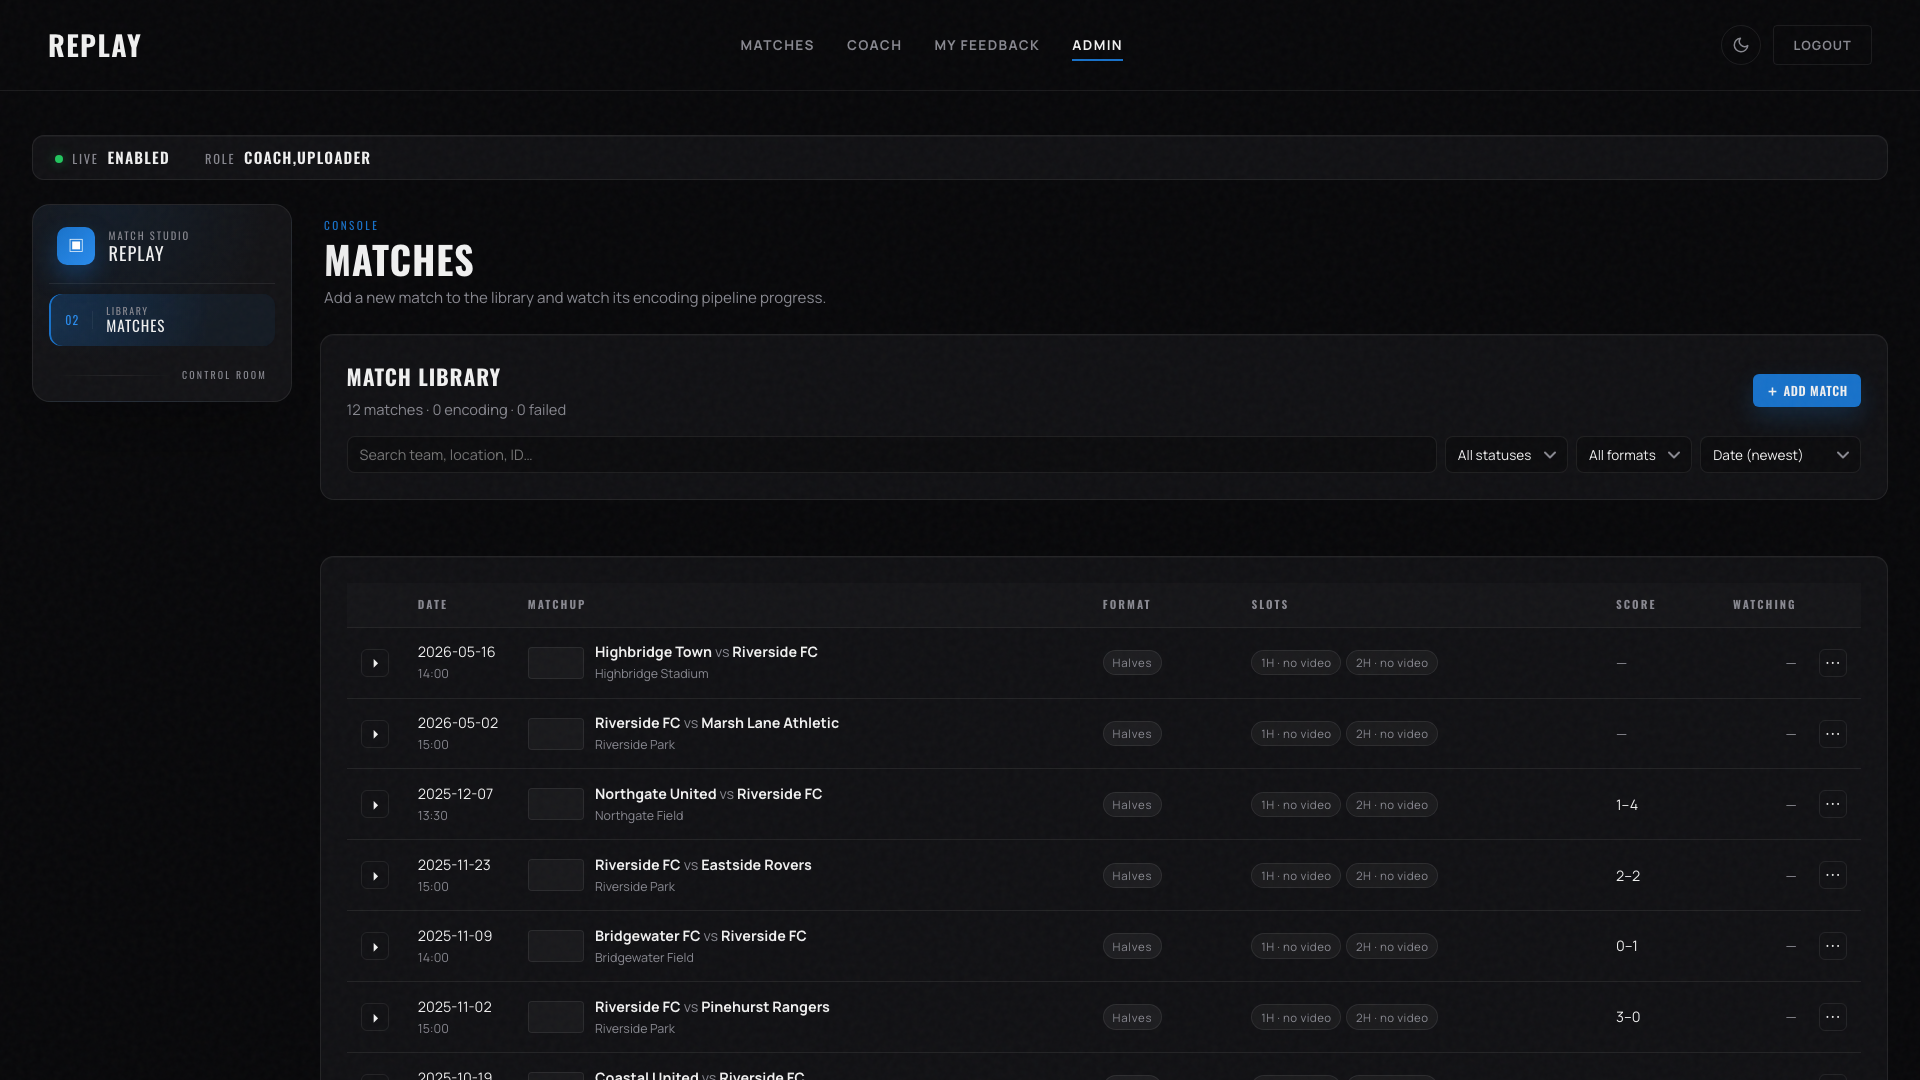
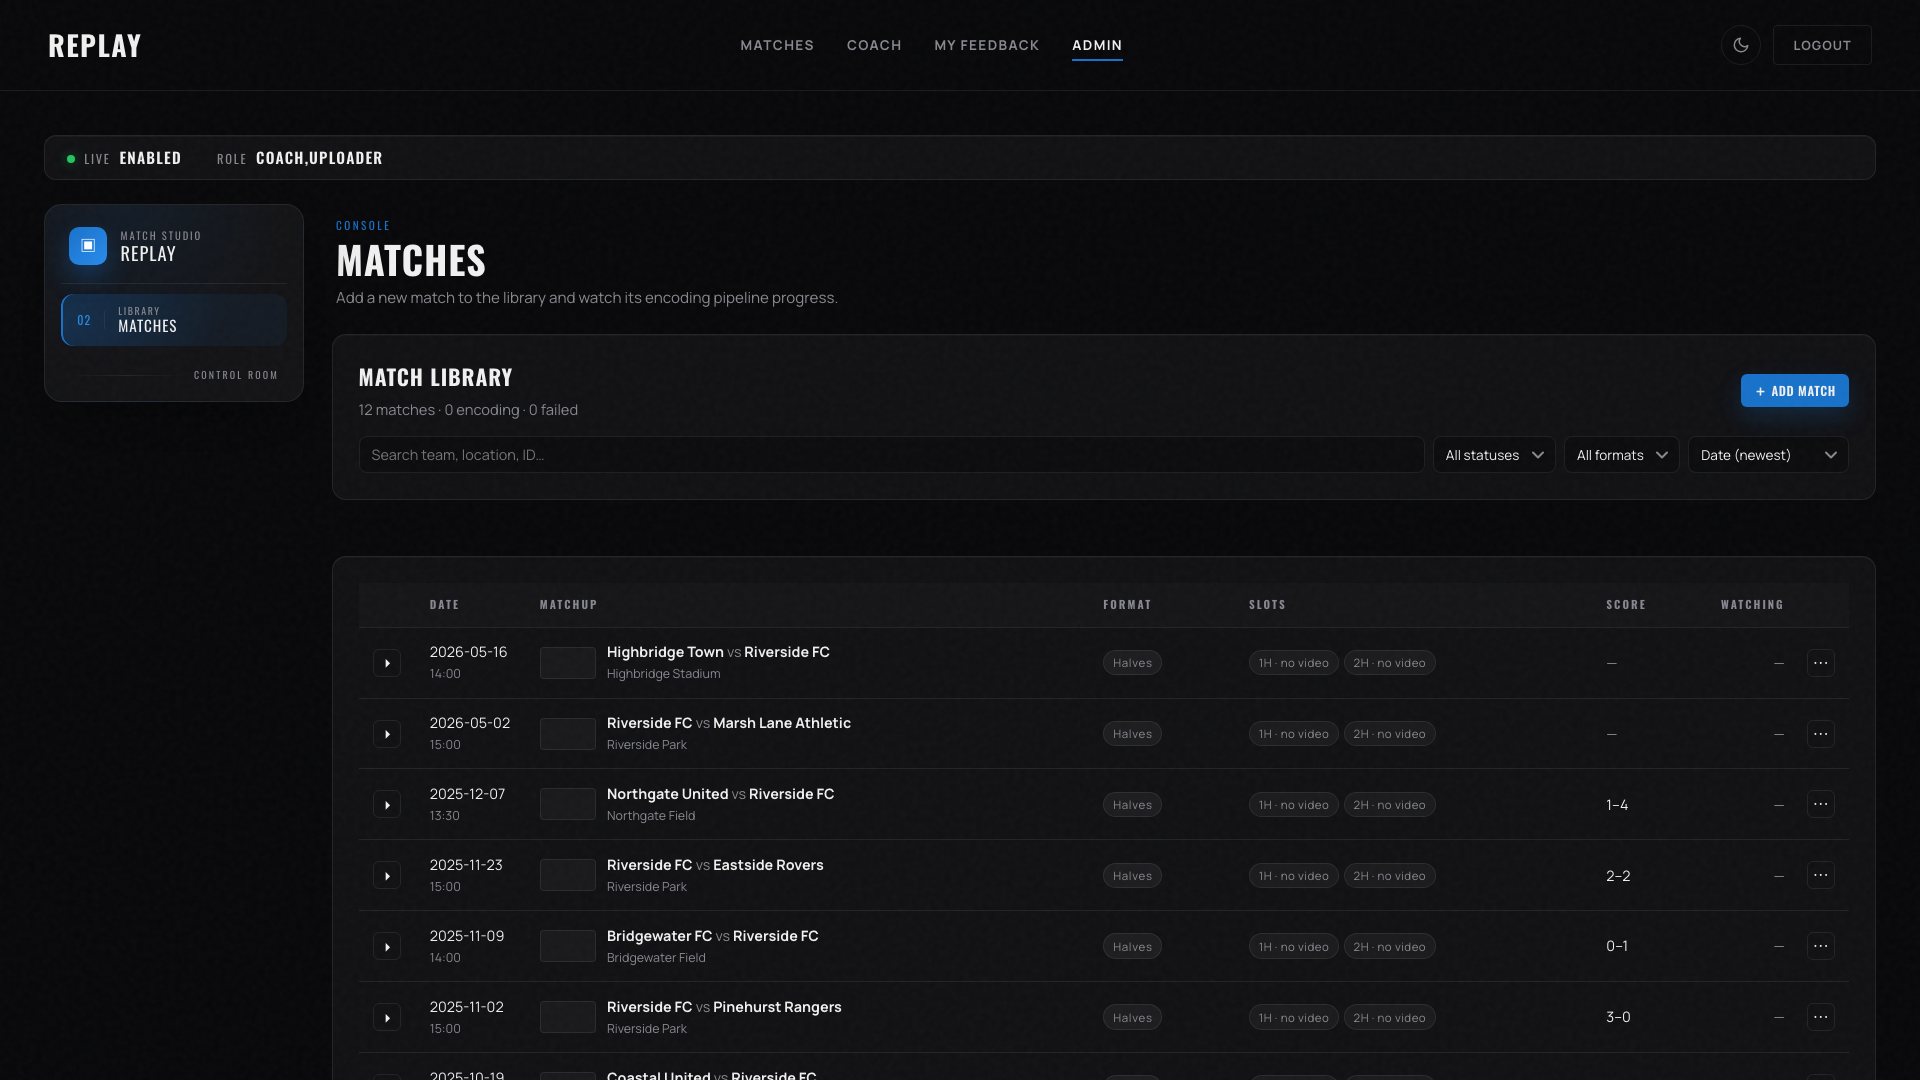
PR #68 review fixes: admin gutter, ROADMAP sync, dead-code cleanup
Address review issues from /code-review on PR #68:

1. **Admin sidebar gutter (Fix A)** — `#admin-view` previously
   dropped to `padding: 1.5rem 0 4rem` after the inner-cap removal,
   leaving the sticky sidebar abutting the page edge at desktop
   widths (only the outer `#app-container { padding: 1.25rem }`
   provided any gutter). Restored a small horizontal pad of
   `0.75rem` so the sidebar / status strip have visible breathing
   room between them and the page edge while still letting the
   admin shell fill end-to-end. Mobile `@media (max-width: 900px)`
   override still wins at narrow widths.

2. **ROADMAP.md sync (Fix C, the only ≥80 review issue)** — added
   a new entry describing the inner-cap removals, and annotated
   the previous PR #67 entry as superseded the same day so a
   future reader doesn't believe the 1320 / 1440 caps are still in
   place. Brings the doc back in line with the CLAUDE.md mandate
   "After every code change, update the relevant markdown files".

3. **`#app-container` comment refresh (Fix D)** — the block comment
   above the global page shell rule still recommended per-view
   inner caps as the right pattern (citing
   `.coach-grid { max-width: 1320px }` as an example). The example
   no longer exists. Rewrote the comment to state the new policy
   explicitly: "Do not add per-view max-width caps. Every view
   fills the shell end-to-end."

4. **Dead `is-review-mode` width override removed (Fix E)** — the
[…]

diff --git a/styles.css b/styles.css
@@ -176,17 +176,20 @@ button {
 
 /* ===== LAYOUT ===== */
 
-/* Global page shell. The width policy is the same one the Coach Review
- * cockpit needs (PR #57+), now applied universally so every view —
- * public season / match, admin, coach (all 4 tabs), my feedback —
- * shares one outer rhythm and tab-switching never jumps the page edges.
- * `min(100% - 1.5rem, 2200px)` lets the shell scale with the viewport
- * up to ~2200 px (after which form rows look weird sprawling across a
- * 28" monitor) and keeps a consistent ~12 px gutter on every side at
- * narrower widths. Padding is reduced from the historical 3rem to
- * 1.25rem so the content actually reaches the new edges; views that
- * want a narrower readable measure should cap their *inner* containers
- * (e.g. `.coach-grid { max-width: 1320px }`), not the outer shell. */
+/* Global page shell. One width policy for the entire site — the
+ * Coach Review cockpit's policy (PR #57+) is now applied universally
+ * so every view (public season / match, admin, coach all 4 tabs,
+ * my feedback) shares one outer rhythm and tab-switching never
+ * jumps the page edges. `min(100% - 1.5rem, 2200px)` scales the
+ * shell with the viewport up to ~2200 px (after which content looks
+ * weird sprawling across a 28" monitor) and keeps a consistent ~12 px
+ * gutter on every side at narrower widths. Padding is reduced from
+ * the historical 3rem to 1.25rem so content actually reaches the
+ * new edges. **Do not add per-view max-width caps.** Every view
+ * fills the shell end-to-end; rare components that genuinely need
+ * a narrower readable measure (a long prose article, a focused
+ * playback modal) cap themselves at the component level. See
+ * AGENTS.md "One width for the whole site" for the rationale. */
 #app-container {
     padding: 1.25rem;
     max-width: min(100% - 1.5rem, 2200px);
@@ -3289,10 +3292,13 @@ input[type="time"]::-webkit-calendar-picker-indicator {
 
 /* Admin shell — no inner cap, fills the universal page shell so it
  * matches Coach Review and the rest of the site at wide widths.
- * Padding tightened from `1.75rem 2.5rem 4rem` to a uniform value
- * that lets the dashboard reach the new edges. */
+ * A small horizontal pad (`0.75rem`) preserves a visible gutter
+ * between the sticky sidebar / status strip and the outer
+ * `#app-container` edge — without it the sidebar abuts the page
+ * gutter at desktop widths. Mobile (`@media (max-width: 900px)`
+ * ~L3735) overrides this to `1rem` for touch ergonomics. */
 #admin-view {
-    padding: 1.5rem 0 4rem;
+    padding: 1.5rem 0.75rem 4rem;
 }
 
 /* ----- Status strip ----- */
@@ -6626,19 +6632,12 @@ details.diag-row-details[open] > summary::after {
     padding-bottom: 0.6rem;
 }
 
-/* Review mode lets the cockpit fill the full shell. The outer page
- * shell width itself is now uniform across the whole site (see
- * `#app-container` ~L179); here we only need to lift the inner
- * 1180 px cap on the Coach page-head / subnav / tab-panel so the
- * cockpit reaches the page edges. The non-Review Coach tabs keep
- * the inner 1180 px cap so form rows stay a comfortable measure. */
-@media (min-width: 1024px) {
-    #coach-view.is-review-mode .coach-page-head,
-    #coach-view.is-review-mode .coach-subnav,
-    #coach-view.is-review-mode .coach-tab-panel {
-        max-width: 100%;
-    }
-}
+/* Review mode no longer needs special width handling: the universal
+ * page shell + the no-inner-cap policy mean every Coach surface
+ * (Roster / Notes / Playlists / Review) already fills `#app-container`
+ * end-to-end. The previous `max-width: 100%` overrides on
+ * `.coach-page-head` / `.coach-subnav` / `.coach-tab-panel` were
+ * removed because the inner 1180 px caps they lifted are gone. */
 
 @media (min-width: 1024px) {
     #coach-view.is-review-mode .coach-review-grid {

diff --git a/ROADMAP.md b/ROADMAP.md
@@ -589,13 +589,28 @@ On phones the season header stacked the team badge, title/intro block and Watch 
 
 ---
 
-## Site-wide Outer Shell Unification + Coach Tab Inner Caps ✅ COMPLETE (2026-05-03)
+## Every-view Fills the Universal Page Shell ✅ COMPLETE (2026-05-03)
+
+**Goal:** the previous unification (below) widened `#app-container` to 2200 px but each view still capped its inner content (Coach 1440, Feedback 980, Admin 1320), leaving large dead bands on either side at 1920 px on every surface except Coach Review. This pass removes those inner caps so each view actually fills the shell.
+
+- **Coach inner caps removed** — `.coach-page-head`, `.coach-grid`, `.coach-subnav`, `.coach-tab-panel` no longer cap; form rows now stretch with the shell. The two-column `.coach-grid` keeps `repeat(2, minmax(0, 1fr))` so the Roster two-card layout still works.
+- **Feedback inner caps removed** — `.feedback-content`, `.feedback-linked-strip`, `.feedback-subnav`, `.feedback-tab-panel` (all were 980 px). My Feedback now fills the shell to match Coach.
+- **Admin inner cap removed** — `#admin-view` is no longer capped at 1320 px. A small horizontal pad (`0.75rem`) preserves a visible gutter between the sticky sidebar / status strip and the outer `#app-container` edge so the dense control panel still has breathing room.
+- **`is-review-mode` width override** in `styles.css` (the `@media (min-width: 1024px) { .coach-page-head, .coach-subnav, .coach-tab-panel { max-width: 100% } }` block) removed — it became a no-op once the inner caps it lifted were gone.
+- **AGENTS.md** rewritten under Editing Guidance: "One width for the whole site. Every view fills the shell end-to-end. Don't add per-view outer OR inner max-width caps."
+- **Public season + match pages** unchanged — they already used grid `auto-fill` / flex, so they fill naturally.
+- **Validation**: `node --check` clean, `pytest tests/` 269 passed; measured at 1920 px — every surface reports container `12 → 1908` with active-view content `32 → 1888`. No body overflow at 1920 / 1440 / 1024 / 768 / 390 px.
+- **Screenshots**: `docs/screenshots/site-width-after/` — refreshed.
+
+---
+
+## Site-wide Outer Shell Unification + Coach Tab Inner Caps ✅ COMPLETE (2026-05-03) — *superseded same day by the entry above*
 
 **Goal:** make every view (public season, public match, coach all 4 tabs, my feedback, admin) share one outer page-shell width, so navigating between them never jumps the page edges.
 
 - **Global page-shell width** (`styles.css` `#app-container` ~L179) — promoted the Review-mode `min(100% - 1.5rem, 2200px)` policy to the universal default. Padding dropped from `3rem` to `1.25rem` so content actually reaches the new edges. The previous Review-only override (`body:has(#coach-view.is-review-mode)` block ~L6628) is dropped — it became a no-op once global matched it.
-- **Coach inner caps** lifted from `1180px` to `1440px` on `.coach-page-head`, `.coach-grid`, `.coach-subnav`, `.coach-tab-panel` so the non-Review tabs visually fill the wider shell while keeping form rows at a comfortable measure.
-- **Admin shell** keeps its dedicated `1320px` inner cap (`#admin-view`) — admin is a control panel, not a content surface, and the dense tile grid + sidebar shouldn't spread across a 28" monitor.
+- **Coach inner caps** lifted from `1180px` to `1440px` on `.coach-page-head`, `.coach-grid`, `.coach-subnav`, `.coach-tab-panel`. *(Removed entirely the same day — see entry above.)*
+- **Admin shell** kept its dedicated `1320px` inner cap (`#admin-view`). *(Removed the same day — see entry above; admin instead uses a small horizontal pad for sidebar gutter.)*
 - **Mobile padding** unchanged — `@media (max-width: 768px)` still sets `1.5rem`, `(max-width: 480px)` still sets `1.1rem`. The new `1.25rem` global only fires above the existing breakpoints.
 - **Validation**: `node --check` clean, `pytest tests/` 265 passed; live verified at 1920 / 1440 / 1024 / 390 px across season / public match / coach (all 4 tabs) / my feedback / admin — no body overflow at any width, edges align tab-to-tab and view-to-view.
 - **Screenshots**: `docs/screenshots/site-width-after/` — 7 surfaces × 4 widths = 28 PNGs.
